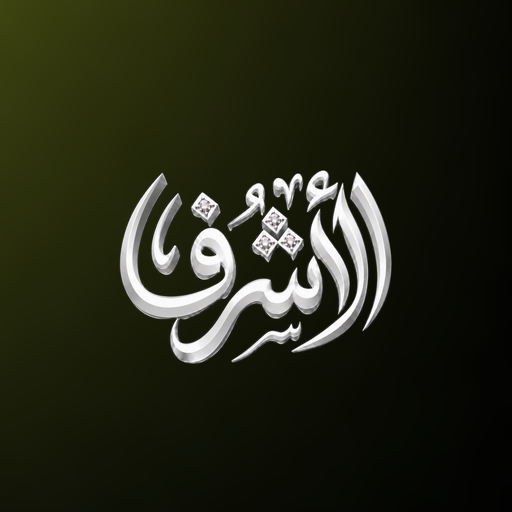
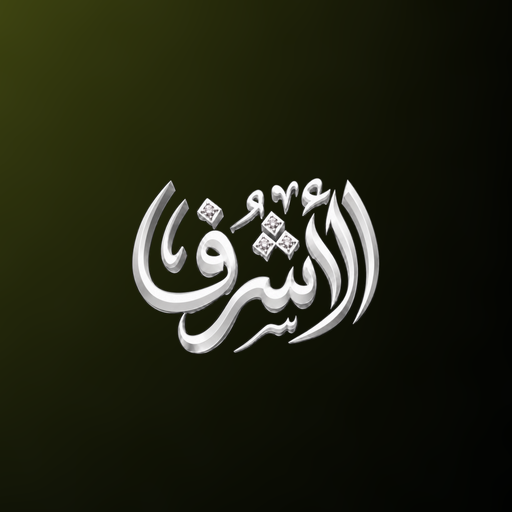
Slightly reduce launcher calligraphy size

Changed region(s): [[0.2188, 0.3125, 0.7812, 0.7188]]

diff --git a/www/app-version.js b/www/app-version.js
@@ -1,2 +1,2 @@
 // Generated from version.properties for this signed release.
-window.AlAshrafBundledVersion = Object.freeze({ versionName: '5.5.23', versionCode: 50 });
+window.AlAshrafBundledVersion = Object.freeze({ versionName: '5.5.24', versionCode: 51 });
